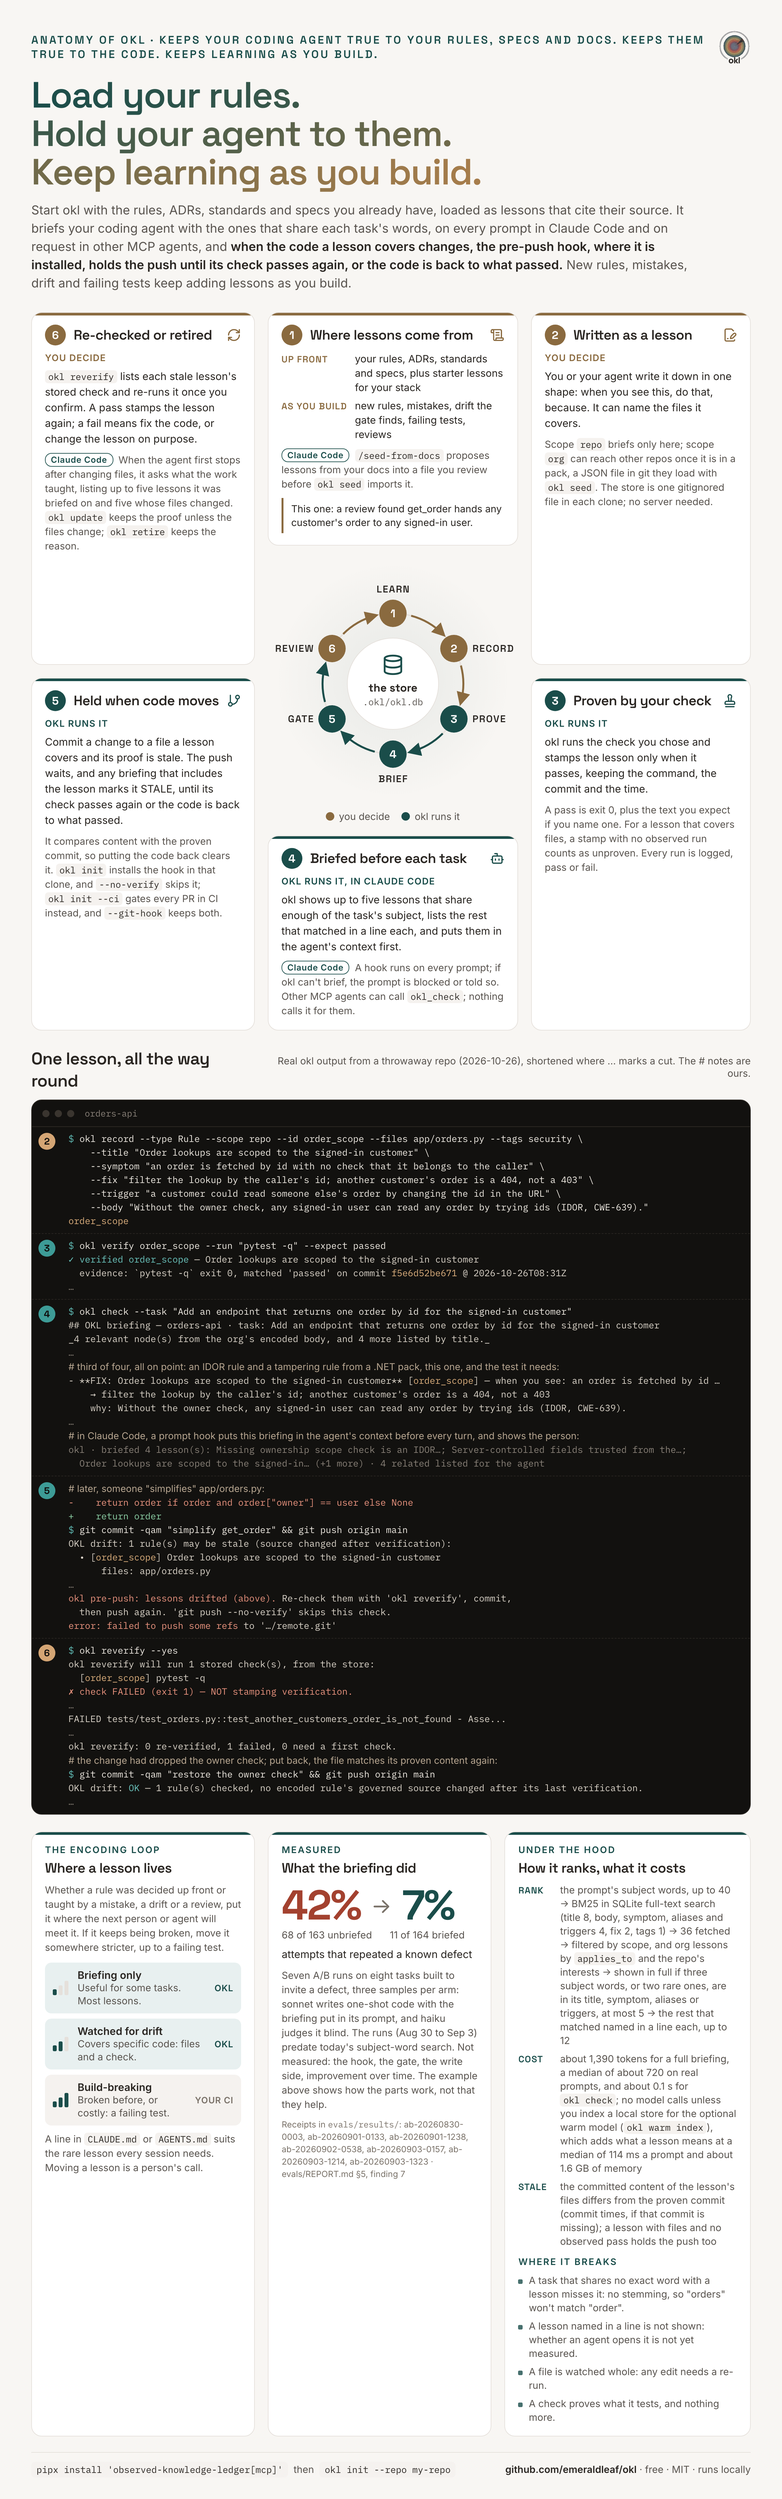
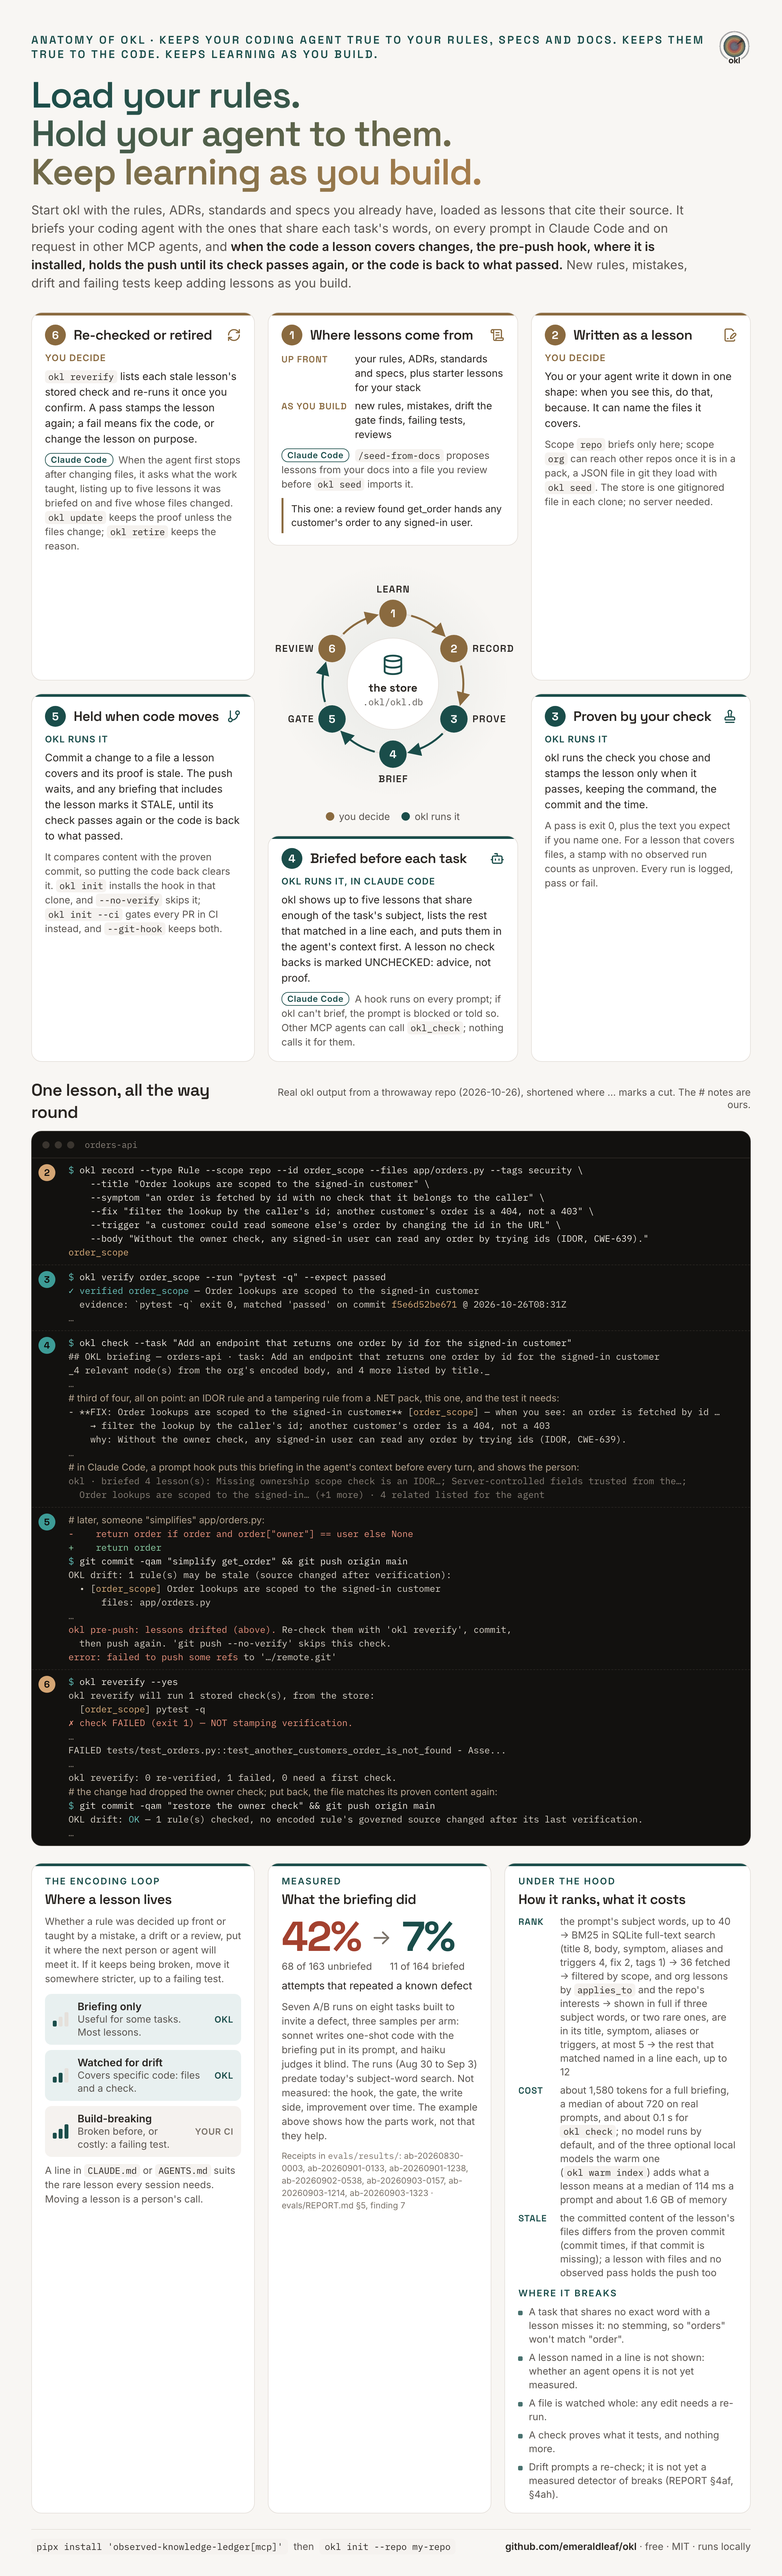
WIP: anatomy refresh and re-measured briefing sizes (median pending)

diff --git a/docs/overview/okl-anatomy.html b/docs/overview/okl-anatomy.html
@@ -246,7 +246,7 @@ footer b { color: var(--text); font-weight: 600; }
       <article class="panel runs" style="flex: none">
         <div class="ph"><span class="num">4</span><h3>Briefed before each task</h3><svg class="ic"><use href="#i-bot"/></svg></div>
         <p class="who">okl runs it, in Claude Code</p>
-        <p class="lede">okl shows up to five lessons that share enough of the task's subject, lists the rest that matched in a line each, and puts them in the agent's context first.</p>
+        <p class="lede">okl shows up to five lessons that share enough of the task's subject, lists the rest that matched in a line each, and puts them in the agent's context first. A lesson no check backs is marked UNCHECKED: advice, not proof.</p>
         <p class="mech"><span class="cc">Claude Code</span> A hook runs on every prompt; if okl can't brief, the prompt is blocked or told so. Other MCP agents can call <code>okl_check</code>; nothing calls it for them.</p>
       </article>
     </div>
@@ -349,7 +349,7 @@ OKL drift: <span class="t-ok">OK</span> — 1 rule(s) checked, no encoded rule's
       <h3>How it ranks, what it costs</h3>
       <dl class="spec">
         <dt>Rank</dt><dd>the prompt's subject words, up to 40 → BM25 in SQLite full-text search (title 8, body, symptom, aliases and triggers 4, fix 2, tags 1) → 36 fetched → filtered by scope, and org lessons by <code>applies_to</code> and the repo's interests → shown in full if three subject words, or two rare ones, are in its title, symptom, aliases or triggers, at most 5 → the rest that matched named in a line each, up to 12</dd>
-        <dt>Cost</dt><dd>about 1,390 tokens for a full briefing, a median of about 720 on real prompts, and about 0.1 s for <code>okl check</code>; no model calls unless you index a local store for the optional warm model (<code>okl warm index</code>), which adds what a lesson means at a median of 114 ms a prompt and about 1.6 GB of memory</dd>
+        <dt>Cost</dt><dd>about 1,580 tokens for a full briefing, a median of about 720 on real prompts, and about 0.1 s for <code>okl check</code>; no model runs by default, and of the three optional local models the warm one (<code>okl warm index</code>) adds what a lesson means at a median of 114 ms a prompt and about 1.6 GB of memory</dd>
         <dt>Stale</dt><dd>the committed content of the lesson's files differs from the proven commit (commit times, if that commit is missing); a lesson with files and no observed pass holds the push too</dd>
       </dl>
       <p class="kicker" style="margin-top: 12px">Where it breaks</p>
@@ -358,6 +358,7 @@ OKL drift: <span class="t-ok">OK</span> — 1 rule(s) checked, no encoded rule's
         <li>A lesson named in a line is not shown: whether an agent opens it is not yet measured.</li>
         <li>A file is watched whole: any edit needs a re-run.</li>
         <li>A check proves what it tests, and nothing more.</li>
+        <li>Drift prompts a re-check; it is not yet a measured detector of breaks (REPORT §4af, §4ah).</li>
       </ul>
     </article>
   </section>

diff --git a/src/okl/mcp_server.py b/src/okl/mcp_server.py
@@ -74,7 +74,7 @@ def _build() -> Any:  # noqa: C901, PLR0915 - a declarative table of tool defini
 
         `compact=True` returns ONLY the imperative action list (what to fix, when you
         see it, what to do), with the other lessons that matched named one line each: roughly
-        350 tokens at limit=3 and 580 at limit=5, versus ~1,390 for the full briefing (measured
+        400 tokens at limit=3 and 710 at limit=5, versus ~1,580 for the full briefing (measured
         by evals/briefing_size.py).
         Use it when working in a small context budget, e.g. a subagent handling one
         focused subtask. `limit` caps how many records are drawn on.

diff --git a/README.md b/README.md
@@ -483,7 +483,7 @@ repos at a shared service when you want one store ([docs/SCAFFOLD.md](docs/SCAFF
 ```bash
 # 1. READ the relevant lessons before starting a task (the load-bearing move)
 okl check --task "add an endpoint that returns an order for the logged-in user"
-#   add --format actions --limit 3 for a ~350-token version (subagents, CI)
+#   add --format actions --limit 3 for a ~400-token version (subagents, CI)
 
 # 2. RECORD a lesson after you learn it, with an actionable symptom/cause/fix
 okl record --type Defect --scope org --tags "security" \
@@ -519,7 +519,7 @@ before you wire it into every prompt. Every number below was measured rather tha
 estimated, with one representative task ("add an endpoint that returns an order for the
 logged-in user"; tokens ≈ characters ÷ 4). The sizes come from a fresh store holding every
 bundled seed pack, 183 records (`python3 evals/briefing_size.py`, receipt
-[`evals/results/briefing-size-20261027-0132.json`](evals/results/briefing-size-20261027-0132.json)); the latency from the 161 seed records bundled before that.
+[`evals/results/briefing-size-20261102-0123.json`](evals/results/briefing-size-20261102-0123.json)); the latency from the 161 seed records bundled before that.
 Your store and your tasks will differ.
 
 **Per prompt, once the hook is installed:**
@@ -527,7 +527,7 @@ Your store and your tasks will differ.
 | | |
 |---|---|
 | Latency | **~0.1s** for the whole `okl check` process (0.07s median warm) — one local SQLite query, no network in local mode |
-| Context | **~1,390 tokens** by default on one representative task (five lessons in full, twelve named in a line; ~730 under `--decision calibrated`, ~1,730 under `--decision floor`); on real prompts the median is **~720** ([REPORT §4y](evals/REPORT.md)). Down to **~350** for only the action list at `--limit 3` |
+| Context | **~1,580 tokens** by default on one representative task (five lessons in full, twelve named in a line; ~780 under `--decision calibrated`, ~1,810 under `--decision floor`); on real prompts the median is **~720** ([REPORT §4y](evals/REPORT.md)). Down to **~400** for only the action list at `--limit 3` |
 
 
 **Per session:** in Claude Code, the Stop hook interrupts once at the end to ask what was learned. It
@@ -541,23 +541,23 @@ a change in one line and makes it once you agree. To read the whole session back
 briefings, the lessons recorded and retired, the checks run and failed, the commits, and what
 is stale now, from the store's own logs.
 
-A full briefing costs roughly **1,390 tokens** on the measurement above (~730 for the line
-alone, ~1,730 under the floor's twelve), fine for a main session with a large window and still a real share for a subagent
+A full briefing costs roughly **1,580 tokens** on the measurement above (~780 for the line
+alone, ~1,810 under the floor's twelve), fine for a main session with a large window and still a real share for a subagent
 working in a few thousand. That asymmetry matters
 because subagents are exactly where org rules get lost: a focused worker handling one
 subtask has the least context and the most need for "here is the mistake this codebase
 already made."
 
 **Measured on every bundled seed pack (183 records), one representative task**
-([receipt](evals/results/briefing-size-20261027-0132.json)): the action list alone is ~350
-tokens at `--limit 3`, ~580 at `--limit 5` and ~1,010 at `--limit 12` (its one-line entries
-follow the limit), against ~1,390 for the full briefing. Cheap enough to call per subtask;
+([receipt](evals/results/briefing-size-20261102-0123.json)): the action list alone is ~400
+tokens at `--limit 3`, ~710 at `--limit 5` and ~1,150 at `--limit 12` (its one-line entries
+follow the limit), against ~1,580 for the full briefing. Cheap enough to call per subtask;
 `--decision calibrated` drops the one-line entries for the smallest list.
 
 The same holds for a main session on a model with a small context window, where the
 briefing arrives with every prompt. Set `OKL_BRIEFING_COMPACT=1` and the Claude Code prompt hook sends
 only the action list (`okl check --compact`); set `OKL_BRIEFING_LIMIT=3` and it shows three
-records and names three more, instead of five and twelve. Together that is ~350 tokens instead of ~1,390 on the
+records and names three more, instead of five and twelve. Together that is ~400 tokens instead of ~1,580 on the
 measurement above. Set them where the agent starts: hooks inherit its environment. A
 limit that is not a whole number above zero is ignored, and an okl too old for
 `--compact` briefs in full rather than blocking the prompt. Like `--format actions`, the
